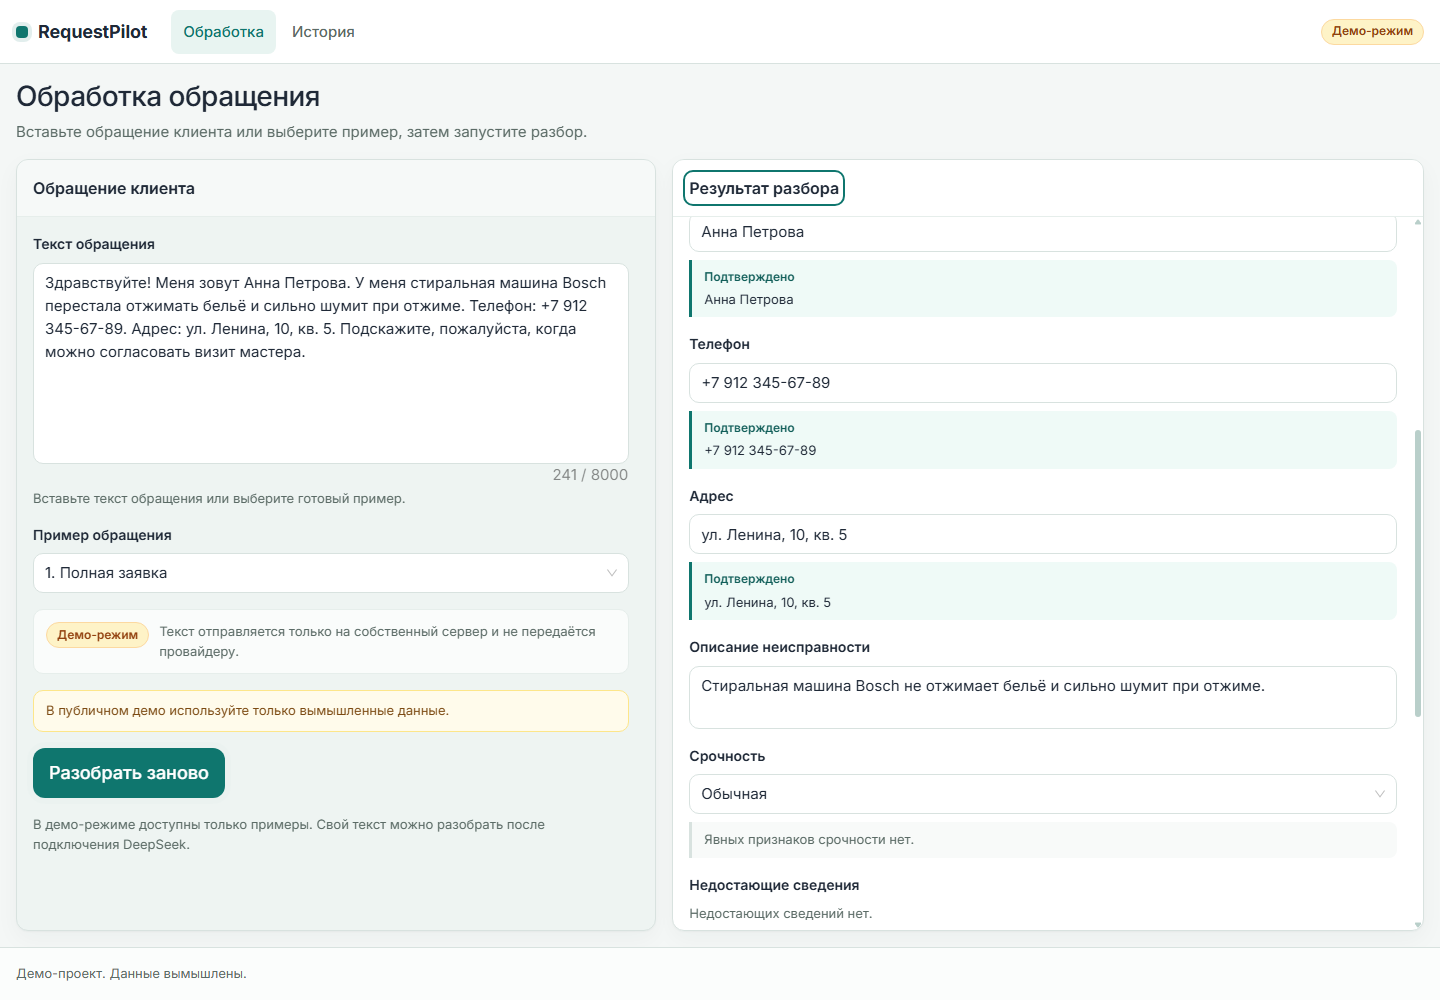
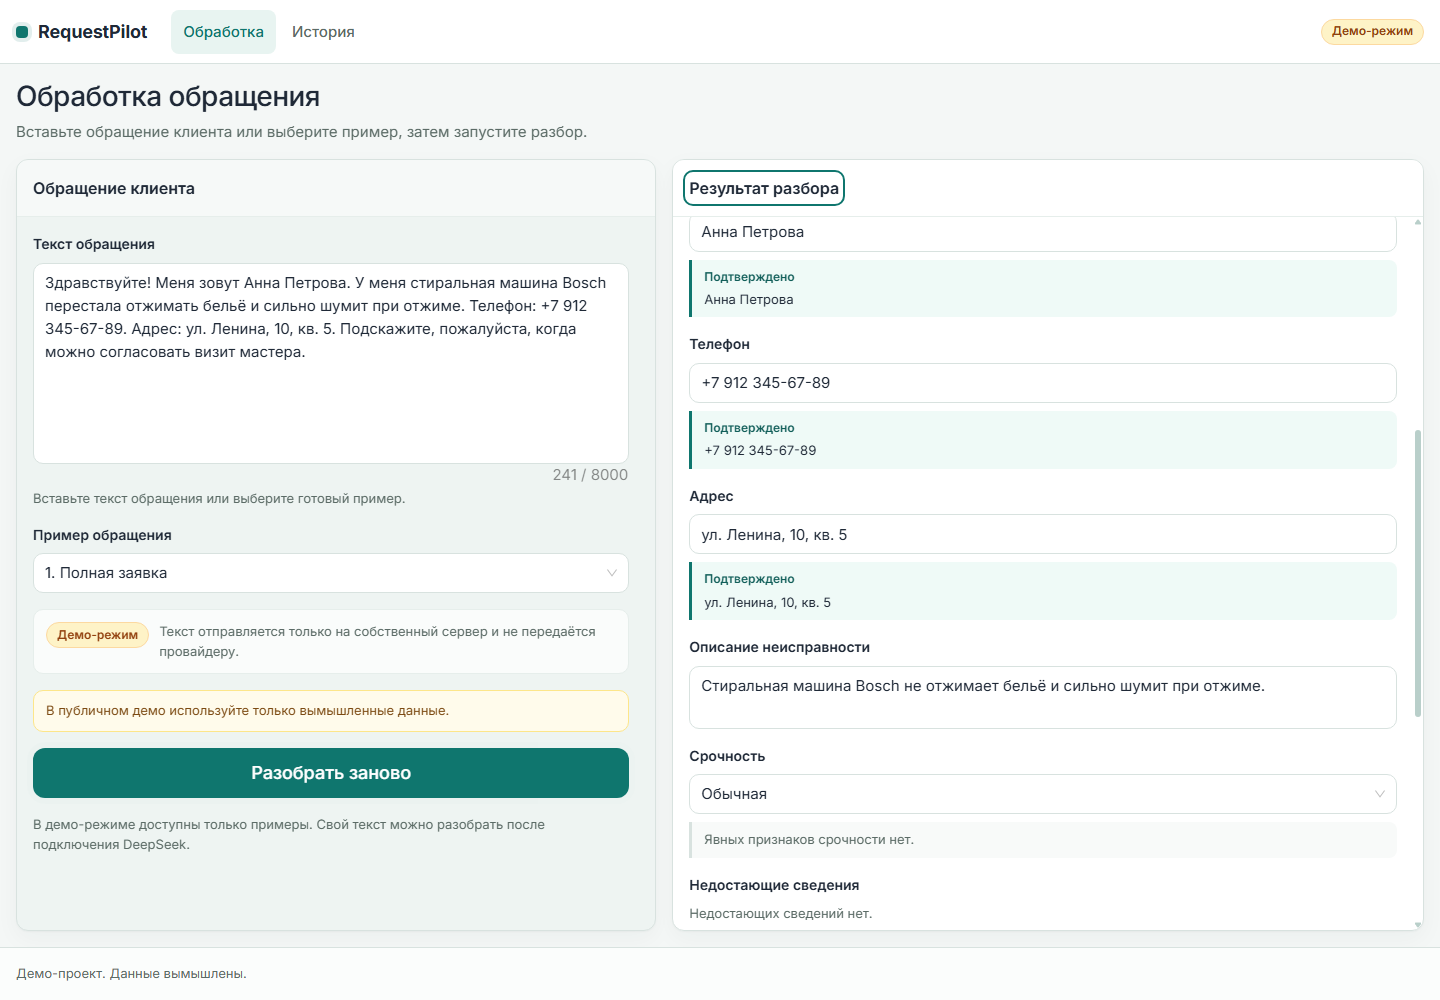
Этап 7: Playwright-тесты и финальная проверка

Changed region(s): [[0.0312, 0.744, 0.4375, 0.806]]

diff --git a/tests/fake.spec.ts b/tests/fake.spec.ts
@@ -1,0 +1,59 @@
+import { expect, test } from '@playwright/test'
+
+import { AnalyzeResponseSchema, ApiErrorResponseSchema } from '../shared/schemas/api'
+
+test('fake API maps provider failures to stable error codes', async ({ request }) => {
+  const success = await request.post('/api/analyze', {
+    data: { text: 'Тестовое обращение для проверки.' },
+  })
+  expect(success.status()).toBe(200)
+  expect(AnalyzeResponseSchema.parse(await success.json()).analysis.category.value).toBe('washing_machine')
+
+  const providerError = await request.post('/api/analyze', { data: { text: '[[fake:error]]' } })
+  expect(providerError.status()).toBe(502)
+  expect(ApiErrorResponseSchema.parse(await providerError.json()).error.code).toBe('PROVIDER_UNAVAILABLE')
+
+  const timeout = await request.post('/api/analyze', { data: { text: '[[fake:timeout]]' } })
+  expect(timeout.status()).toBe(504)
+  expect(ApiErrorResponseSchema.parse(await timeout.json()).error.code).toBe('PROVIDER_TIMEOUT')
+
+  const invalidJson = await request.post('/api/analyze', { data: { text: '[[fake:invalid-json]]' } })
+  expect(invalidJson.status()).toBe(502)
+  expect(ApiErrorResponseSchema.parse(await invalidJson.json()).error.code).toBe('INVALID_MODEL_RESPONSE')
+
+  const badSchema = await request.post('/api/analyze', { data: { text: '[[fake:bad-schema]]' } })
+  expect(badSchema.status()).toBe(502)
+  expect(ApiErrorResponseSchema.parse(await badSchema.json()).error.code).toBe('INVALID_MODEL_RESPONSE')
+})
+
+test('fake API keeps an unverified evidence quote', async ({ request }) => {
+  const response = await request.post('/api/analyze', {
+    data: { text: 'Стиральная машина не сливает воду. [[fake:evidence-mismatch]]' },
+  })
+
+  expect(response.status()).toBe(200)
+
+  const payload = AnalyzeResponseSchema.parse(await response.json())
+  expect(payload.analysis.category.evidence?.verified).toBe(false)
+})
+
+test('fake flow: provider error is shown with retry', async ({ page }) => {
+  await page.goto('/')
+  await page.locator('#source-text').fill('Стиральная машина не сливает воду. [[fake:error]]')
+  await page.getByRole('button', { name: 'Разобрать обращение' }).click()
+
+  await expect(page.getByText('Провайдер временно недоступен. Попробуйте ещё раз.')).toBeVisible()
+  await expect(page.getByRole('button', { name: 'Повторить' })).toBeVisible()
+})
+
+test('fake flow: cancel does not leave a result', async ({ page }) => {
+  const source = 'Стиральная машина не сливает воду. [[fake:delay]]'
+  await page.goto('/')
+  await page.locator('#source-text').fill(source)
+  await page.getByRole('button', { name: 'Разобрать обращение' }).click()
+
+  await page.getByRole('button', { name: 'Отменить' }).click()
+  await expect(page.getByText('Запрос отменён')).toBeVisible()
+  await expect(page.locator('.analysis')).toHaveCount(0)
+  await expect(page.locator('#source-text')).toHaveValue(source)
+})

diff --git a/tests/demo.spec.ts b/tests/demo.spec.ts
@@ -1,0 +1,53 @@
+import { expect, test } from '@playwright/test'
+
+import { DEMO_EXAMPLES } from '../shared/examples'
+import { AnalyzeResponseSchema, ApiErrorResponseSchema } from '../shared/schemas/api'
+
+test('demo API returns a validated prepared analysis', async ({ request }) => {
+  const example = DEMO_EXAMPLES[0]
+
+  if (!example) {
+    throw new Error('Демонстрационный пример не найден.')
+  }
+
+  const response = await request.post('/api/analyze', { data: { text: example.text } })
+  expect(response.status()).toBe(200)
+
+  const payload = AnalyzeResponseSchema.parse(await response.json())
+  expect(payload.mode).toBe('demo')
+  expect(payload.provider).toBe('demo')
+  expect(payload.analysis.category.value).toBe('washing_machine')
+  expect(payload.analysis.customer.name.value).toBe('Анна Петрова')
+  expect(payload.analysis.customer.phone.value).toBe('+7 912 345-67-89')
+})
+
+test('demo API rejects text outside the prepared examples', async ({ request }) => {
+  const response = await request.post('/api/analyze', {
+    data: { text: 'Свой текст, которого нет среди примеров.' },
+  })
+
+  expect(response.status()).toBe(422)
+  expect(ApiErrorResponseSchema.parse(await response.json()).error.code).toBe('DEMO_EXAMPLE_REQUIRED')
+})
+
+test('demo flow: example, result, save and history', async ({ page }) => {
+  await page.goto('/')
+  await page.locator('#example-select').click()
+  await page
+    .locator('.ant-select-dropdown:visible .ant-select-item-option')
+    .filter({ hasText: '1. Полная заявка' })
+    .click()
+
+  await expect(page.locator('#source-text')).toHaveValue(/Анна Петрова/)
+  await page.getByRole('button', { name: 'Разобрать обращение' }).click()
+
+  await expect(page.locator('#analysis-summary')).toBeVisible()
+  await expect(page.getByRole('heading', { name: 'Результат разбора' })).toBeVisible()
+
+  await page.getByRole('button', { name: 'Подтвердить и сохранить' }).click()
+  await page.waitForURL(/\/history\/[^/]+$/)
+  await expect(page.getByRole('heading', { name: /^Разбор от/ })).toBeVisible()
+
+  await page.goto('/history')
+  await expect(page.locator('.history-card').filter({ hasText: 'Анна Петрова' })).toBeVisible()
+})

diff --git a/playwright.config.ts b/playwright.config.ts
@@ -1,0 +1,92 @@
+import { defineConfig } from '@playwright/test'
+
+const DEMO_URL = 'http://127.0.0.1:3111'
+const FAKE_URL = 'http://127.0.0.1:3112'
+
+const TEST_LIMITS = {
+  AI_DAILY_REQUEST_LIMIT: '1000',
+  RATE_LIMIT_PER_MINUTE: '1000',
+  MAX_CONCURRENT_AI_REQUESTS: '20',
+}
+
+export default defineConfig({
+  testDir: './tests',
+  timeout: 30_000,
+  expect: {
+    timeout: 7_000,
+  },
+  fullyParallel: false,
+  workers: 1,
+  reporter: 'list',
+  use: {
+    channel: 'chrome',
+    timezoneId: 'Asia/Yekaterinburg',
+    trace: 'retain-on-failure',
+  },
+  webServer: [
+    {
+      command: 'node dist-server/index.js',
+      port: 3111,
+      reuseExistingServer: false,
+      timeout: 30_000,
+      env: {
+        NODE_ENV: 'test',
+        AI_PROVIDER: 'demo',
+        PORT: '3111',
+        DEEPSEEK_API_KEY: '',
+        ...TEST_LIMITS,
+      },
+    },
+    {
+      command: 'node dist-server/index.js',
+      port: 3112,
+      reuseExistingServer: false,
+      timeout: 30_000,
+      env: {
+        NODE_ENV: 'test',
+        AI_PROVIDER: 'fake',
+        PORT: '3112',
+        DEEPSEEK_API_KEY: '',
+        ...TEST_LIMITS,
+      },
+    },
+  ],
+  projects: [
+    {
+      name: 'demo-desktop',
+      testMatch: ['**/api.spec.ts', '**/demo.spec.ts'],
+      use: {
+        baseURL: DEMO_URL,
+        viewport: { width: 1440, height: 1000 },
+      },
+    },
+    {
+      name: 'demo-mobile',
+      testMatch: ['**/api.spec.ts', '**/demo.spec.ts'],
+      use: {
+        baseURL: DEMO_URL,
+        viewport: { width: 390, height: 844 },
+        isMobile: true,
+        hasTouch: true,
+      },
+    },
+    {
+      name: 'fake-desktop',
+      testMatch: ['**/api.spec.ts', '**/fake.spec.ts'],
+      use: {
+        baseURL: FAKE_URL,
+        viewport: { width: 1440, height: 1000 },
+      },
+    },
+    {
+      name: 'fake-mobile',
+      testMatch: ['**/api.spec.ts', '**/fake.spec.ts'],
+      use: {
+        baseURL: FAKE_URL,
+        viewport: { width: 390, height: 844 },
+        isMobile: true,
+        hasTouch: true,
+      },
+    },
+  ],
+})

diff --git a/tests/api.spec.ts b/tests/api.spec.ts
@@ -1,0 +1,42 @@
+import { expect, test } from '@playwright/test'
+
+import { ApiErrorResponseSchema, ConfigResponseSchema } from '../shared/schemas/api'
+
+test('config reports the active provider', async ({ request }, testInfo) => {
+  const isDemo = testInfo.project.name.startsWith('demo')
+  const response = await request.get('/api/config')
+
+  expect(response.status()).toBe(200)
+
+  const config = ConfigResponseSchema.parse(await response.json())
+
+  expect(config.provider).toBe(isDemo ? 'demo' : 'fake')
+  expect(config.mode).toBe(isDemo ? 'demo' : 'live')
+  expect(config.model).toBe(isDemo ? null : 'fake')
+  expect(config.maxTextLength).toBe(8000)
+})
+
+test('rejects empty, malformed and oversized requests', async ({ request }) => {
+  const empty = await request.post('/api/analyze', { data: { text: '   ' } })
+  expect(empty.status()).toBe(400)
+  expect(ApiErrorResponseSchema.parse(await empty.json()).error.code).toBe('TEXT_REQUIRED')
+
+  const wrongType = await request.post('/api/analyze', { data: { text: 42 } })
+  expect(wrongType.status()).toBe(400)
+  expect(ApiErrorResponseSchema.parse(await wrongType.json()).error.code).toBe('INVALID_REQUEST')
+
+  const extraField = await request.post('/api/analyze', { data: { text: 'текст', extra: true } })
+  expect(extraField.status()).toBe(400)
+  expect(ApiErrorResponseSchema.parse(await extraField.json()).error.code).toBe('INVALID_REQUEST')
+
+  const tooLong = await request.post('/api/analyze', { data: { text: 'а'.repeat(8001) } })
+  expect(tooLong.status()).toBe(413)
+  expect(ApiErrorResponseSchema.parse(await tooLong.json()).error.code).toBe('TEXT_TOO_LONG')
+
+  const brokenJson = await request.post('/api/analyze', {
+    headers: { 'Content-Type': 'application/json' },
+    data: '{"text":',
+  })
+  expect(brokenJson.status()).toBe(400)
+  expect(ApiErrorResponseSchema.parse(await brokenJson.json()).error.code).toBe('INVALID_REQUEST')
+})
